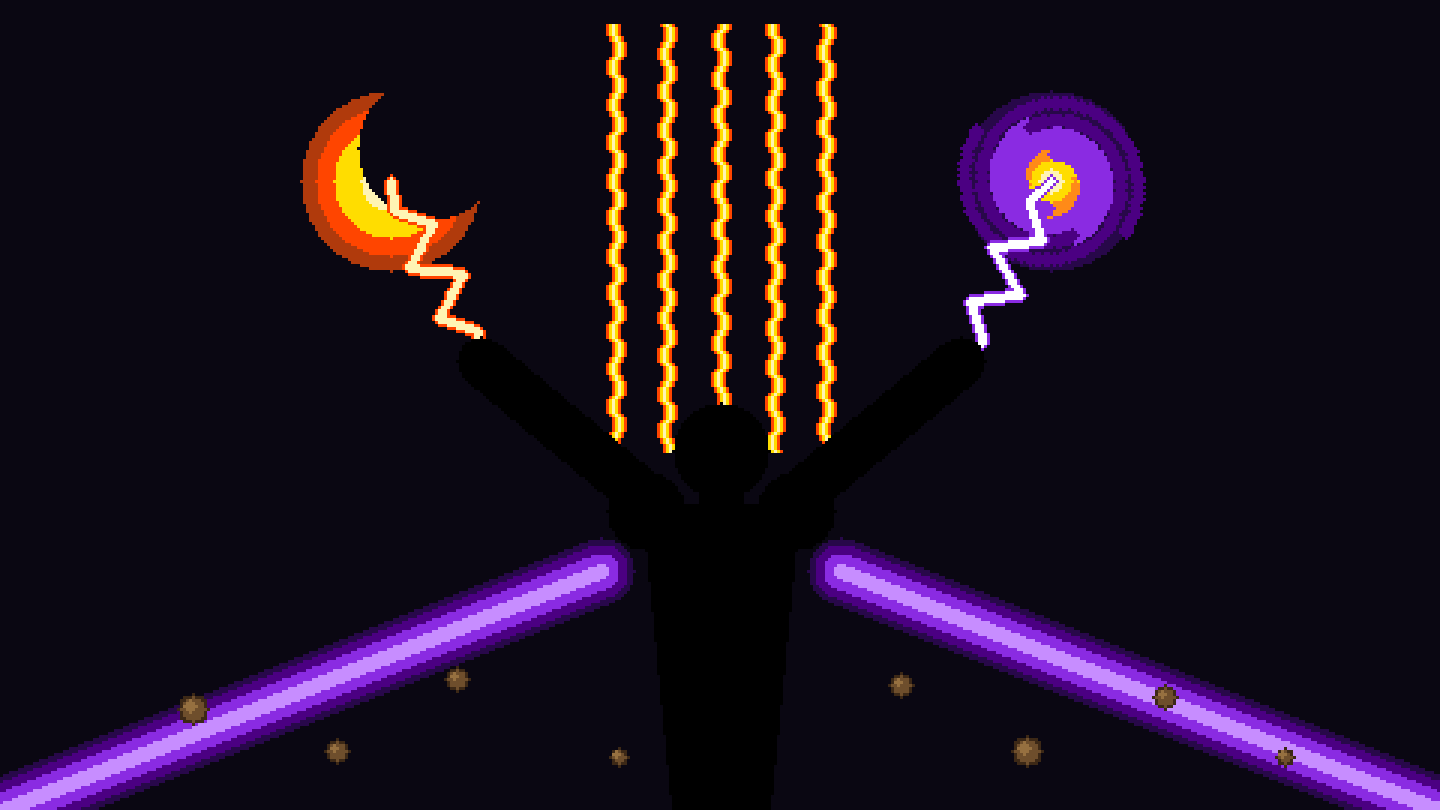
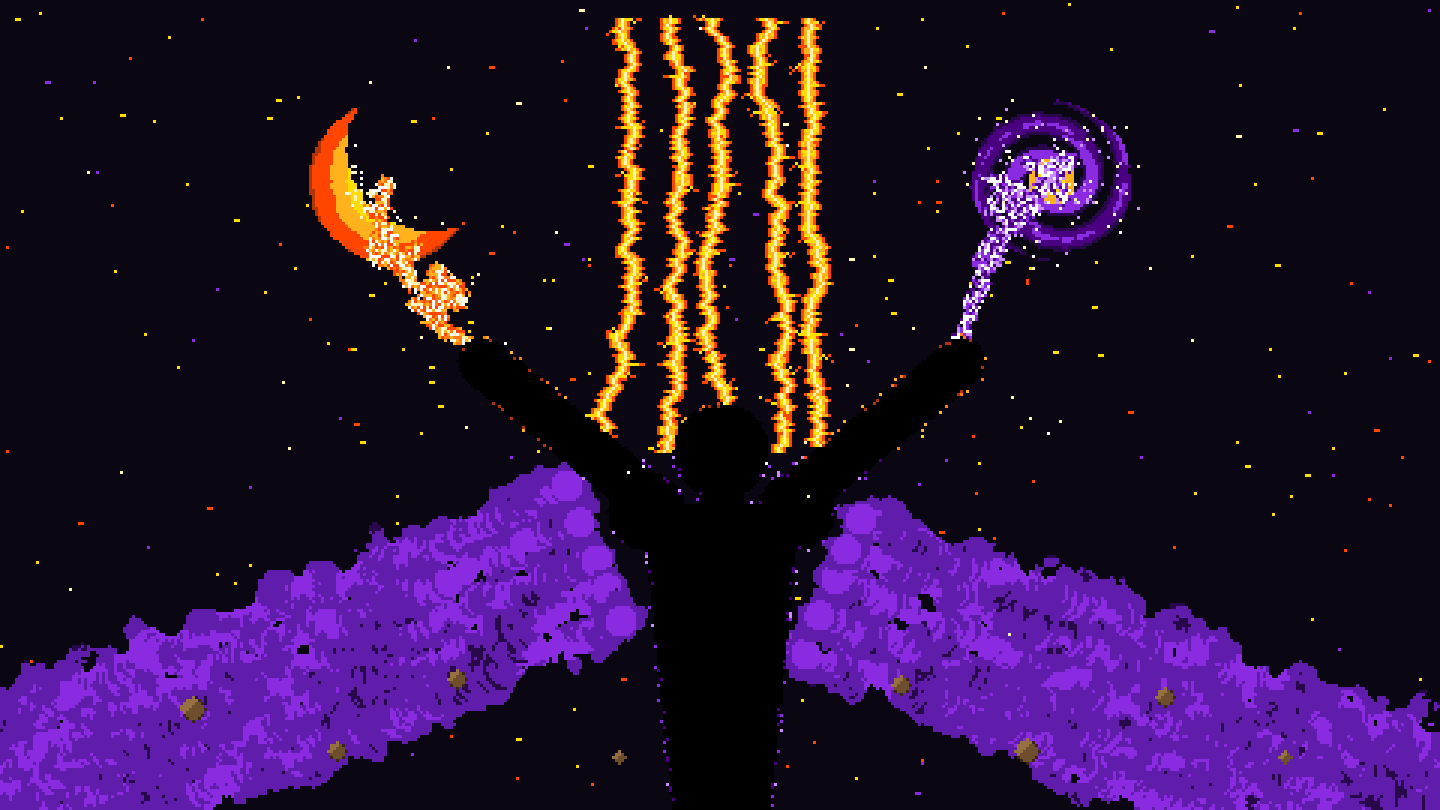
Refactor Cosmic Summoning render: gritty noise/particle texture

diff --git a/cosmic-summoning.html b/cosmic-summoning.html
@@ -3,93 +3,163 @@
 <head>
 <meta charset="utf-8" />
 <meta name="viewport" content="width=device-width, initial-scale=1" />
-<title>Cosmic Summoning — Structured Static Frame | pixel-art-meta</title>
+<title>Cosmic Summoning — Gritty Pixel Frame | pixel-art-meta</title>
 <style>
   html,body{margin:0;background:#06040c}
-  #wrap{display:block;width:100%}
-  canvas{
-    display:block;
-    image-rendering:pixelated; image-rendering:crisp-edges;
-    width:100%; height:auto;        /* scale up, keep crisp */
-  }
+  canvas{ display:block; image-rendering:pixelated; image-rendering:crisp-edges; width:100%; height:auto; }
 </style>
 </head>
 <body>
-  <div id="wrap"><canvas id="screen"></canvas></div>
+  <canvas id="screen"></canvas>
 
 <script>
 /* ======================================================================
-   COSMIC SUMMONING  — deterministic, geometric static frame.
-   480x270 base, drawn with direct integer pixel ops into one palette of
-   flat retro colors. No noise, no additive HDR, no dithering — every
-   shape is placed by fixed layout math so the composition is predictable.
+   COSMIC SUMMONING — gritty / textured static frame.
+   Same fixed layout as before, but every effect is rendered with
+   noise-driven per-pixel fills + scattered pixel clusters (no ctx.arc,
+   no clean strokes). Flat retro palette: grit comes from noise &
+   particles, never from smooth colour blends.
    ====================================================================== */
-const IW = 480, IH = 270;
-const img = new Uint8ClampedArray(IW*IH*4);
+const IW=480, IH=270;
+const img=new Uint8ClampedArray(IW*IH*4);
+const mask=new Uint8Array(IW*IH);          // silhouette mask (for bloom)
 
-/* ---- flat retro palette ---------------------------------------------- */
-const C = {
-  bg:      [10, 7, 18],
-  black:   [0, 0, 0],
-  white:   [255,255,255],
-  cream:   [255,244,180],
-  yellow:  [255,221,0],     // #FFD700
-  orangeL: [255,138,24],
-  orange:  [255,69,0],      // #FF4500
-  orangeD: [176,58,12],
-  violetL: [199,141,255],
-  purple:  [138,43,226],    // #8A2BE2
-  indigo:  [75,0,130],      // #4B0082
-  indigoD: [40,8,74],
-  rock:    [110,78,44],
-  rockL:   [150,112,64],
-  rockD:   [60,40,22],
+const C={
+  bg:[10,7,18], black:[0,0,0], white:[255,255,255], cream:[255,244,180],
+  yellow:[255,221,0], amber:[255,178,28], orangeL:[255,122,16], orange:[255,69,0], orangeD:[176,52,10],
+  violetL:[201,141,255], purple:[138,43,226], purpleD:[96,28,170], indigo:[75,0,130], indigoD:[40,8,74],
+  rock:[110,78,44], rockL:[150,112,64], rockD:[58,38,20],
 };
 
-/* ---- primitives (all integer, hard-edged) ----------------------------- */
-function px(x,y,c){ x=Math.round(x); y=Math.round(y); if(x<0||y<0||x>=IW||y>=IH) return;
-  const i=(y*IW+x)*4; img[i]=c[0]; img[i+1]=c[1]; img[i+2]=c[2]; img[i+3]=255; }
-function disc(cx,cy,r,c){ cx=Math.round(cx); cy=Math.round(cy);
-  for(let y=-r;y<=r;y++) for(let x=-r;x<=r;x++) if(x*x+y*y<=r*r) px(cx+x,cy+y,c); }
-function ringBand(cx,cy,rOut,rIn,c){ cx=Math.round(cx); cy=Math.round(cy);
-  for(let y=-rOut;y<=rOut;y++) for(let x=-rOut;x<=rOut;x++){ const d=x*x+y*y;
-    if(d<=rOut*rOut && d>=rIn*rIn) px(cx+x,cy+y,c); } }
-function capsule(x0,y0,x1,y1,r,c){ const L=Math.hypot(x1-x0,y1-y0), N=Math.ceil(L);
-  for(let s=0;s<=N;s++){ const k=s/N; disc(x0+(x1-x0)*k, y0+(y1-y0)*k, r, c); } }
-function trap(yt,yb,xtl,xtr,xbl,xbr,c){ for(let y=yt;y<=yb;y++){ const t=(y-yt)/(yb-yt);
-  const xl=Math.round(xtl+(xbl-xtl)*t), xr=Math.round(xtr+(xbr-xtr)*t);
-  for(let x=xl;x<=xr;x++) px(x,y,c); } }
-// solid diagonal stream with a bright centre line and indigo edges
-function stream(ax,ay,bx,by,halfW){
-  const x0=Math.min(ax,bx)-halfW, x1=Math.max(ax,bx)+halfW;
-  const y0=Math.min(ay,by)-halfW, y1=Math.max(ay,by)+halfW;
-  const vx=bx-ax, vy=by-ay, L2=vx*vx+vy*vy;
-  for(let y=y0;y<=y1;y++) for(let x=x0;x<=x1;x++){
-    let t=((x-ax)*vx+(y-ay)*vy)/L2; t=t<0?0:t>1?1:t;
-    const px_=ax+vx*t, py_=ay+vy*t, d=Math.hypot(x-px_,y-py_);
-    if(d>halfW) continue;
+/* ---- deterministic RNG + value noise ---------------------------------- */
+let _s=1337>>>0;
+function rnd(){ _s^=_s<<13; _s^=_s>>>17; _s^=_s<<5; _s>>>=0; return _s/4294967296; }
+function seed(v){ _s=v>>>0; }
+function hash(x,y){ let n=(x|0)*374761393+(y|0)*668265263; n=(n^(n>>13))*1274126177; return ((n^(n>>16))>>>0)/4294967296; }
+function vnoise(x,y){ const xi=Math.floor(x),yi=Math.floor(y),xf=x-xi,yf=y-yi;
+  const tl=hash(xi,yi),tr=hash(xi+1,yi),bl=hash(xi,yi+1),br=hash(xi+1,yi+1);
+  const u=xf*xf*(3-2*xf),v=yf*yf*(3-2*yf);
+  return tl*(1-u)*(1-v)+tr*u*(1-v)+bl*(1-u)*v+br*u*v; }
+function fbm(x,y){ let s=0,a=.5,f=1; for(let i=0;i<4;i++){s+=a*vnoise(x*f,y*f);f*=2;a*=.5;} return s; }
+
+/* ---- pixel ops -------------------------------------------------------- */
+function pset(x,y,c){ x|=0;y|=0; if(x<0||y<0||x>=IW||y>=IH) return; const i=(y*IW+x)*4; img[i]=c[0];img[i+1]=c[1];img[i+2]=c[2];img[i+3]=255; }
+function psil(x,y){ x|=0;y|=0; if(x<0||y<0||x>=IW||y>=IH) return; const i=y*IW+x; mask[i]=1; const j=i*4; img[j]=0;img[j+1]=0;img[j+2]=0;img[j+3]=255; }
+function blk(cx,cy,r,c){ for(let y=-r;y<=r;y++)for(let x=-r;x<=r;x++) if(x*x+y*y<=r*r) pset(cx+x,cy+y,c); }
+function blkSil(cx,cy,r){ for(let y=-r;y<=r;y++)for(let x=-r;x<=r;x++) if(x*x+y*y<=r*r) psil(cx+x,cy+y); }
+function capSil(x0,y0,x1,y1,r){ const L=Math.hypot(x1-x0,y1-y0),N=Math.ceil(L); for(let s=0;s<=N;s++){const k=s/N; blkSil(Math.round(x0+(x1-x0)*k),Math.round(y0+(y1-y0)*k),r);} }
+
+/* ====================================================================== */
+/*  GRITTY ELEMENT RENDERERS                                              */
+/* ====================================================================== */
+
+// churning plasma crescent: noise-banded fill inside a crescent boundary
+function plasmaCrescent(cx,cy,R,carveX,carveY,carveR){
+  for(let y=cy-R-2;y<=cy+R+2;y++) for(let x=cx-R-2;x<=cx+R+2;x++){
+    const d=Math.hypot(x-cx,y-cy), dc=Math.hypot(x-carveX,y-carveY);
+    if(d>R || dc<carveR) continue;
+    const n=fbm(x*0.16+5, y*0.16-3);
+    const edge=Math.min(R-d, dc-carveR);
+    if(edge<5 && n<(5-edge)/5) continue;                 // jagged eaten edges
+    const dd=d + (n-0.5)*8;                              // wavy, gritty bands
     let c;
-    if(d>=halfW-2) c=C.indigoD;
-    else if(d>=halfW-5) c=C.indigo;
-    else if(d<=2.5) c=C.violetL;
-    else c=C.purple;
-    px(x,y,c);
+    if(dd<7)      c = (n>0.5? C.white : C.cream);
+    else if(dd<13)c = (n>0.7? C.white : C.yellow);
+    else if(dd<19)c = (n>0.78? C.cream : C.amber);
+    else if(dd<25)c = (n>0.6? C.orangeL : C.orange);
+    else          c = (n>0.5? C.orange : C.orangeD);
+    pset(x,y,c);
+  }
+  // blistering hot specks in the core
+  for(let i=0;i<260;i++){ const a=rnd()*6.283, r=rnd()*16;
+    const x=cx+Math.cos(a)*r, y=cy+Math.sin(a)*r;
+    if(Math.hypot(x-carveX,y-carveY)<carveR) continue;
+    pset(x,y, rnd()<0.4?C.white:C.cream); }
+}
+
+// turbulent rotating galaxy: noise + spiral phase, gritty dust
+function dustGalaxy(cx,cy,R){
+  for(let y=cy-R-2;y<=cy+R-2;y++) for(let x=cx-R-2;x<=cx+R+2;x++){
+    const dx=x-cx, dy=y-cy, r=Math.hypot(dx,dy); if(r>R) continue;
+    const a=Math.atan2(dy,dx);
+    const n=fbm(x*0.19+20, y*0.19+7);
+    const edge=R-r; if(edge<6 && n<(6-edge)/6) continue;      // rough rim
+    const arm=Math.sin(2*a + r*0.55 + 0.6);                   // two swirling arms
+    let c=null;
+    if(r<5)        c = (n>0.5? C.white : C.yellow);           // bright core
+    else if(r<8)   c = (n>0.55? C.cream : C.amber);
+    else {
+      const dense = arm*0.5+0.5;                             // 0..1 along/between arms
+      const v = dense*0.8 + n*0.55;
+      if(v>0.92)      c = (n>0.8? C.violetL : C.purple);
+      else if(v>0.55) c = (r<16? C.purple : C.indigo);
+      else if(v>0.30) c = C.indigoD;
+      else            c = null;                              // sparse gaps between arms
+    }
+    if(c) pset(x,y,c);
+  }
+  for(let i=0;i<120;i++){ const a=rnd()*6.283, r=rnd()*R;     // sparkle dust
+    pset(cx+Math.cos(a)*r, cy+Math.sin(a)*r, rnd()<0.3?C.white:(rnd()<0.5?C.violetL:C.cream)); }
+  blk(cx,cy,2,C.white);
+}
+
+// midpoint-displacement organic lightning, thick with colour-bleed fringe
+function lightning(ax,ay,bx,by,disp,coreCol,fringe,depth){
+  depth = depth===undefined? 2 : depth;
+  const iters = depth>0? 6 : 3;
+  let pts=[[ax,ay],[bx,by]];
+  for(let it=0;it<iters;it++){ const np=[];
+    for(let i=0;i<pts.length-1;i++){ const a=pts[i],b=pts[i+1]; np.push(a);
+      const mx=(a[0]+b[0])/2,my=(a[1]+b[1])/2, nx=-(b[1]-a[1]),ny=(b[0]-a[0]),nl=Math.hypot(nx,ny)||1;
+      const o=(rnd()*2-1)*disp; np.push([mx+nx/nl*o,my+ny/nl*o]); }
+    np.push(pts[pts.length-1]); pts=np; disp*=0.55; }
+  const branches=[];
+  for(let i=0;i<pts.length-1;i++){ const a=pts[i],b=pts[i+1],L=Math.hypot(b[0]-a[0],b[1]-a[1]),N=Math.ceil(L);
+    for(let s=0;s<=N;s++){ const k=s/N, x=a[0]+(b[0]-a[0])*k, y=a[1]+(b[1]-a[1])*k;
+      const w=1+(rnd()<0.45?1:0);                           // 4-6px thick, erratic
+      for(let oy=-w-1;oy<=w+1;oy++)for(let ox=-w-1;ox<=w+1;ox++){ if(ox*ox+oy*oy>(w+1)*(w+1)) continue;
+        if(rnd()<0.22) pset(x+ox,y+oy, fringe[(rnd()*fringe.length)|0]); }  // scattered fringe
+      pset(x,y,C.white); pset(x+(rnd()<0.5?0:1),y,coreCol); // thin hot core
+      if(depth>0 && rnd()<0.02) branches.push([x,y]);       // occasional forked branch
+    } }
+  for(const [bx2,by2] of branches)
+    lightning(bx2,by2, bx2+(rnd()*20-10), by2+(rnd()*18-9), 3, coreCol, fringe, depth-1);
+}
+
+// volatile vertical energy pillar (random-walk) + sideways sparks
+function pillar(baseX, topY, baseY){
+  let x=baseX;
+  for(let y=baseY;y>=topY;y--){
+    x += (rnd()*2-1)*1.3; x=Math.max(baseX-6,Math.min(baseX+6,x));
+    const w=1+(rnd()<0.4?1:0);
+    for(let o=-w-1;o<=w+1;o++){ const c = Math.abs(o)<=w? (rnd()<0.5?C.yellow:C.amber) : C.orange; pset(x+o,y,c); }
+    pset(x,y,C.cream);
+    if(rnd()<0.12){ const dir=rnd()<0.5?-1:1, len=2+(rnd()*5|0);   // bursting horizontal spark
+      for(let s=1;s<=len;s++) pset(x+dir*s, y+(rnd()<0.3?(rnd()<0.5?1:-1):0), s>len-2?C.orange:C.yellow); }
   }
 }
-// tight deterministic zig-zag beam, 3-4px thick, core + border
-function zigzag(ax,ay,bx,by,segs,amp,coreCol,edgeCol){
-  const len=Math.hypot(bx-ax,by-ay), nx=-(by-ay)/len, ny=(bx-ax)/len;
-  const pts=[];
-  for(let i=0;i<=segs;i++){ const t=i/segs;
-    const env=Math.sin(t*Math.PI);                       // no offset at the endpoints
-    const off=(i%2? amp:-amp)*env;
-    pts.push([ ax+(bx-ax)*t + nx*off, ay+(by-ay)*t + ny*off ]); }
-  for(let pass=0; pass<2; pass++){
-    const r = pass===0? 2 : 1;                            // border pass then core pass
-    const col = pass===0? edgeCol : coreCol;
-    for(let i=0;i<pts.length-1;i++){
-      const a=pts[i], b=pts[i+1], L=Math.hypot(b[0]-a[0],b[1]-a[1]), N=Math.ceil(L);
-      for(let s=0;s<=N;s++){ const k=s/N; disc(a[0]+(b[0]-a[0])*k, a[1]+(b[1]-a[1])*k, r, col); }
+
+// billowing energy cloud: overlapping noisy particle circles along a spine
+function billow(sx,sy,ex,ey,baseR){
+  const N=64;
+  for(let i=0;i<=N;i++){ const t=i/N;
+    const bx=sx+(ex-sx)*t, by=sy+(ey-sy)*t;
+    const px=-(ey-sy), py=(ex-sx), pl=Math.hypot(px,py)||1;
+    for(let s=-2;s<=2;s++){
+      const off=s*baseR*0.42 + (fbm(t*6+s, i*0.3)-0.5)*baseR*0.7;
+      const cx=bx+px/pl*off, cy=by+py/pl*off;
+      const rad=baseR*(1-0.4*t)*(0.75+0.55*fbm(t*5+s*3, i));
+      for(let yy=-rad;yy<=rad;yy++)for(let xx=-rad;xx<=rad;xx++){
+        const dd=Math.hypot(xx,yy); if(dd>rad) continue;
+        const n=fbm((cx+xx)*0.12+s, (cy+yy)*0.12-s);
+        if(n < dd/rad*0.5) continue;                       // smoky edges, dense interior
+        let c;
+        const f=dd/rad;
+        if(f<0.34) c=(n>0.74?C.violetL:C.purple);
+        else if(f<0.66) c=(n>0.55?C.purple:C.purpleD);
+        else c=(n>0.45?C.indigo:C.indigoD);
+        pset(cx+xx, cy+yy, c);
+      }
     }
   }
 }
@@ -97,84 +167,77 @@ function zigzag(ax,ay,bx,by,segs,amp,coreCol,edgeCol){
 /* ====================================================================== */
 function buildScene(){
   // background
-  for(let i=0;i<IW*IH;i++){ const j=i*4; img[j]=C.bg[0]; img[j+1]=C.bg[1]; img[j+2]=C.bg[2]; img[j+3]=255; }
+  for(let i=0;i<IW*IH;i++){ const j=i*4; img[j]=C.bg[0];img[j+1]=C.bg[1];img[j+2]=C.bg[2];img[j+3]=255; }
+  mask.fill(0);
 
-  /* -- (a) vertical lightning pillars behind the figure ---------------- */
-  const pillarX=[205,222,240,258,275];
-  for(let p=0;p<pillarX.length;p++){
-    const baseX=pillarX[p];
-    for(let y=8;y<=150;y++){
-      const cx=baseX + Math.round(1.4*Math.sin((y+p*17)*0.5));
-      px(cx-2,y,C.orange); px(cx+2,y,C.orange);            // thin orange border
-      px(cx-1,y,C.yellow); px(cx+1,y,C.yellow);            // yellow body
-      px(cx,  y,C.cream);                                  // bright core
-    }
-  }
+  /* ambient hot-pixel field (behind), denser toward the action */
+  seed(99);
+  for(let i=0;i<1400;i++){ const x=rnd()*IW, y=rnd()*IH, dc=Math.hypot(x-240,y-120);
+    if(rnd() > 0.12+0.55*Math.max(0,1-dc/170)) continue;
+    const q=rnd(), c = q<0.45?C.yellow : q<0.72?C.orange : q<0.9?C.purple : C.cream;
+    pset(x,y,c); if(rnd()<0.3){ pset(x+1,y,c); } }
 
-  /* -- (b) lower ground waves — solid diagonal streams ----------------- */
-  stream(0,270, 200,190, 11);     // bottom-left  -> left armpit
-  stream(480,270, 280,190, 11);   // bottom-right -> right armpit
+  /* billowing ground waves from the corners up to the armpits */
+  seed(7);
+  billow(0,272, 200,190, 28);
+  billow(480,272, 280,190, 28);
 
-  /* -- (c) LEFT orb: concentric crescent sun --------------------------- */
-  // banded sun (outer dark-orange -> orange -> yellow -> white core)
-  disc(130,60, 30, C.orangeD);
-  disc(130,60, 25, C.orange);
-  disc(130,60, 19, C.yellow);
-  disc(130,60, 10, C.cream);
-  disc(130,60, 5,  C.white);
-  // carve a crescent by knocking out an offset disc with the background
-  disc(143,49, 24, C.bg);
+  /* volatile vertical pillars behind the figure */
+  seed(41);
+  const px=[205,222,240,258,275];
+  for(let i=0;i<px.length;i++) pillar(px[i], 6, 150);
 
-  /* -- (d) RIGHT orb: Archimedean spiral galaxy ------------------------ */
-  const gx=350, gy=60, maxR=30, turns=2.6, b=maxR/(turns*Math.PI*2);
-  // indigo disc backing so the arms read as a galaxy body
-  disc(gx,gy, maxR, C.indigoD);
-  for(let arm=0; arm<2; arm++){
-    const a0=arm*Math.PI;
-    for(let th=0; th<turns*Math.PI*2; th+=0.06){
-      const r=b*th, a=th+a0, x=gx+Math.cos(a)*r, y=gy+Math.sin(a)*r;
-      const f=th/(turns*Math.PI*2);
-      let col, rad;
-      if(f<0.20){ col=C.yellow; rad=3; }
-      else if(f<0.30){ col=C.orangeL; rad=3; }
-      else { col = (f<0.65? C.purple : C.indigo); rad = (f<0.65?3:2); }
-      disc(x,y, rad, col);
-    }
-  }
-  disc(gx,gy, 7, C.yellow);        // solid bright core
-  disc(gx,gy, 4, C.cream);
-  disc(gx,gy, 2, C.white);
+  /* LEFT crescent plasma + RIGHT dust galaxy */
+  seed(3); plasmaCrescent(130,60, 31, 143,49, 24);
+  seed(5); dustGalaxy(350,60, 31);
 
-  /* -- (e) hand-to-orb energy beams ------------------------------------ */
-  zigzag(160,120, 130,60, 7, 8, C.cream,  C.orange);   // left: golden zig-zag
-  zigzag(320,120, 350,60, 7, 8, C.white,  C.purple);   // right: violet zig-zag
+  /* hand-to-orb organic lightning beams */
+  seed(21); lightning(160,120, 130,60, 9, C.cream, [C.orange,C.amber,C.orangeL,C.white]);
+  seed(34); lightning(320,120, 350,60, 9, C.white, [C.purple,C.violetL,C.indigo,C.white]);
 
-  /* -- (f) floating debris rocks (8) ----------------------------------- */
+  /* floating debris rocks (8), gritty */
+  seed(60);
   const rocks=[[64,236,5],[112,250,4],[152,226,4],[206,252,3],[300,228,4],[342,250,5],[388,232,4],[428,252,3]];
   for(const [rx,ry,rr] of rocks){
-    disc(rx,ry, rr, C.rockD);
-    disc(rx,ry, rr-1, C.rock);
-    disc(rx-1,ry-1, Math.max(1,rr-3), C.rockL);          // simple top-left highlight
+    for(let y=-rr;y<=rr;y++)for(let x=-rr;x<=rr;x++){ const d=Math.hypot(x,y); if(d>rr) continue;
+      const n=fbm((rx+x)*0.4,(ry+y)*0.4); if(d>rr-1 && n<0.4) continue;
+      const lit=(-x-y)/(rr*2);
+      pset(rx+x,ry+y, lit>0.15? C.rockL : (d>rr*0.7? C.rockD : C.rock)); } }
+
+  /* CENTRAL SILHOUETTE (solid black, tracked for bloom) */
+  // torso + legs
+  for(let y=168;y<=270;y++){ const t=(y-168)/102; const xl=Math.round(214+(224-214)*t), xr=Math.round(266+(256-266)*t);
+    for(let x=xl;x<=xr;x++) psil(x,y); }
+  blkSil(215,170,13); blkSil(265,170,13);
+  capSil(240,168,240,156,7); blkSil(240,150,16);
+  capSil(218,168,160,120,8); capSil(262,168,320,120,8);
+  blkSil(160,120,8); blkSil(320,120,8);
+
+  /* silhouette-edge BLOOM / irradiation: warm above, violet below */
+  seed(88);
+  for(let y=1;y<IH-1;y++) for(let x=1;x<IW-1;x++){
+    const i=y*IW+x; if(!mask[i]) continue;
+    const edge = !mask[i-1]||!mask[i+1]||!mask[i-IW]||!mask[i+IW];
+    if(!edge) continue;
+    const warm = y<150;
+    if(rnd()<0.45){ const c = warm? (rnd()<0.5?C.orangeL:C.amber) : (rnd()<0.5?C.purple:C.violetL);
+      // push the glow outward onto a neighbouring empty pixel
+      const dirs=[[1,0],[-1,0],[0,1],[0,-1],[1,1],[-1,-1]]; const d=dirs[(rnd()*dirs.length)|0];
+      const nx=x+d[0], ny=y+d[1]; if(!mask[ny*IW+nx]) pset(nx,ny,c); }
+    if(rnd()<0.12) pset(x,y, warm?C.orangeD:C.indigo);     // irradiated rim onto the body
   }
 
-  /* -- (g) CENTRAL SILHOUETTE (solid black, on top) -------------------- */
-  trap(168,270, 214,266, 224,256, C.black);              // torso + legs block
-  disc(215,170,13,C.black); disc(265,170,13,C.black);    // shoulders
-  capsule(240,168,240,156,7,C.black);                    // neck
-  disc(240,150,16,C.black);                              // head
-  capsule(218,168, 160,120, 8, C.black);                 // left arm  -> hand (160,120)
-  capsule(262,168, 320,120, 8, C.black);                 // right arm -> hand (320,120)
-  disc(160,120,8,C.black); disc(320,120,8,C.black);      // fists
+  /* a few bright sparks ON TOP to tie it together */
+  seed(123);
+  for(let i=0;i<260;i++){ const x=rnd()*IW, y=rnd()*IH, dc=Math.hypot(x-240,y-110);
+    if(rnd()>0.5*Math.max(0,1-dc/150)) continue;
+    pset(x,y, rnd()<0.5?C.white:C.cream); }
 }
 
-/* ---- DOM bootstrap ---------------------------------------------------- */
 if(typeof document!=='undefined'){
-  const cvs=document.getElementById('screen');
-  cvs.width=IW; cvs.height=IH;
-  const ctx=cvs.getContext('2d');
-  ctx.imageSmoothingEnabled=false;
-  buildScene();
-  ctx.putImageData(new ImageData(img, IW, IH), 0, 0);
+  const cvs=document.getElementById('screen'); cvs.width=IW; cvs.height=IH;
+  const ctx=cvs.getContext('2d'); ctx.imageSmoothingEnabled=false;
+  buildScene(); ctx.putImageData(new ImageData(img,IW,IH),0,0);
 }
 </script>
 </body>
